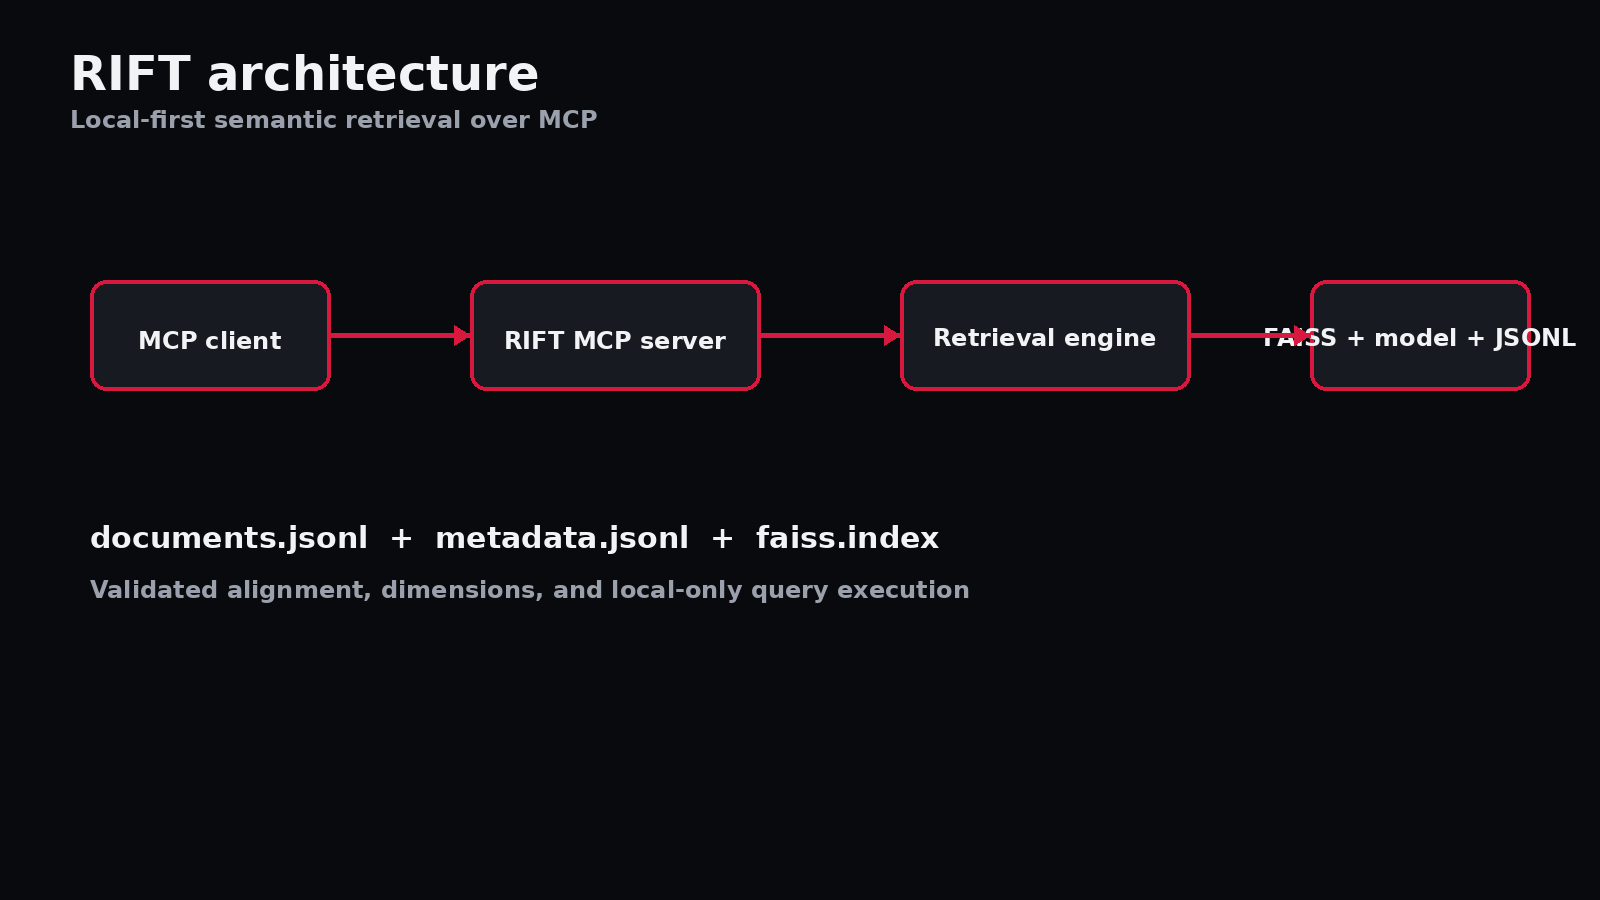
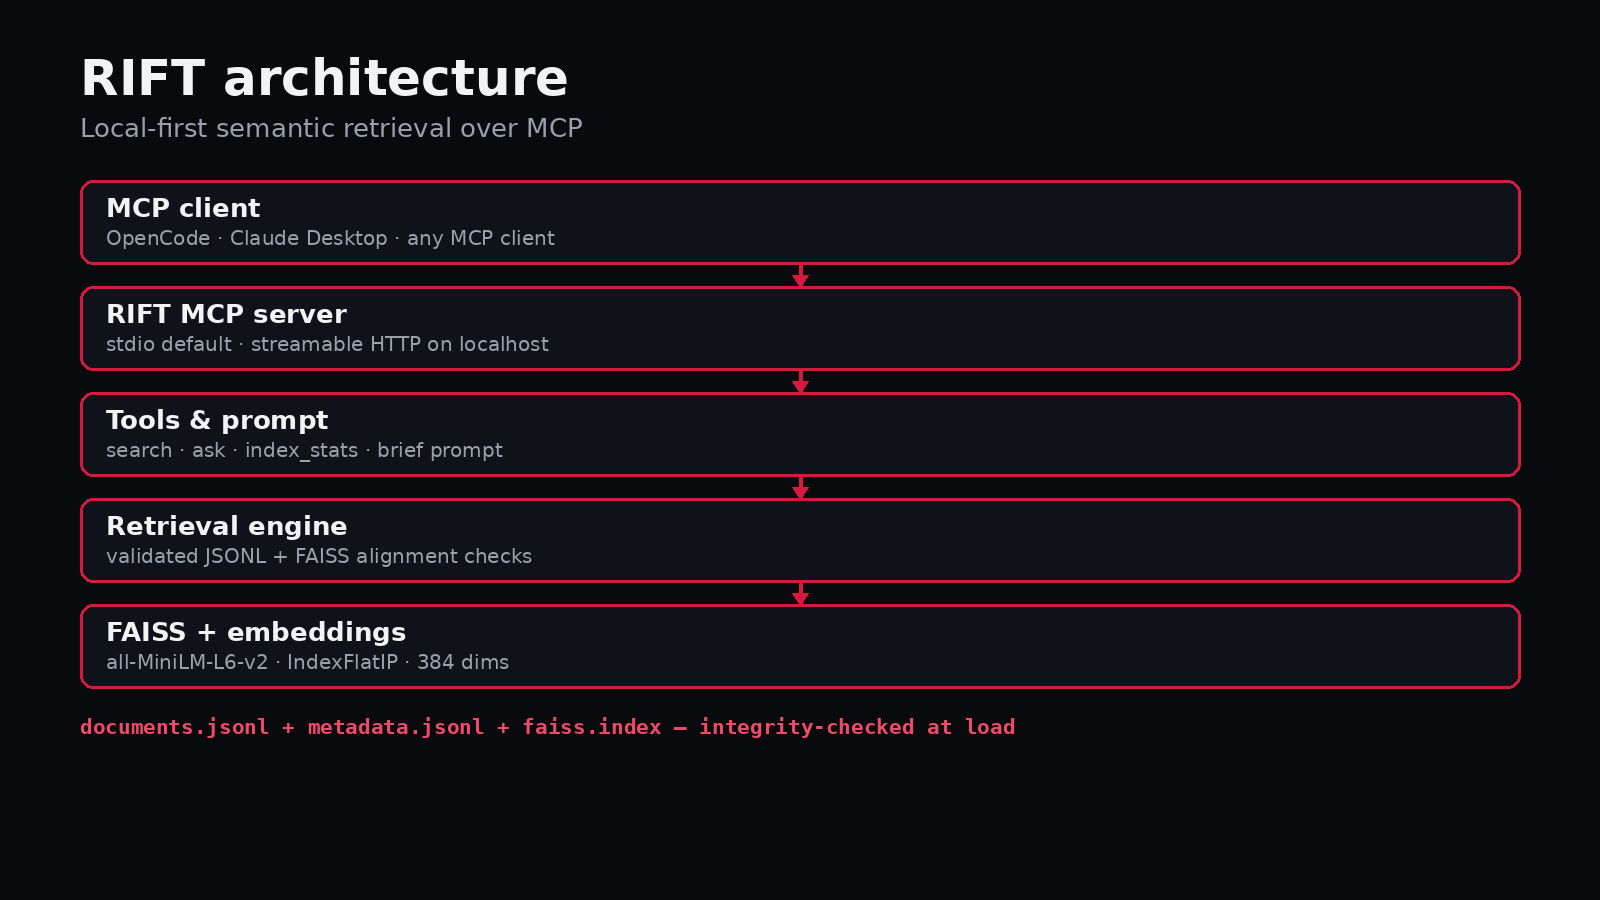
Fix raster assets (clipped text) and stale references
- Regenerate banner.png, social-preview.png, architecture.png so all text
  fits within margins (previously clipped off-canvas)
- engine: point missing-index error at RIFT_INDEX_DIR + docs/TROUBLESHOOTING.md
- server: drop unverified Cursor claim from module docstring

Changed region(s): [[0.0312, 0.1867, 1.0, 0.84], [0.0312, 0.0622, 0.375, 0.1556]]

diff --git a/dayunhalawa_mcp/engine.py b/dayunhalawa_mcp/engine.py
@@ -73,8 +73,8 @@ class Engine:
             if not p.exists():
                 raise FileNotFoundError(
                     f"Index file missing: {p}. Expected faiss.index, documents.jsonl "
-                    f"and metadata.jsonl in DAYUNHALAWA_INDEX_DIR (current: {self.index_dir}). "
-                    "See README.md#building-the-index."
+                    f"and metadata.jsonl in RIFT_INDEX_DIR (legacy DAYUNHALAWA_INDEX_DIR; current: {self.index_dir}). "
+                    "See docs/TROUBLESHOOTING.md."
                 )
 
         self.index = faiss.read_index(str(faiss_path))

diff --git a/dayunhalawa_mcp/server.py b/dayunhalawa_mcp/server.py
@@ -2,7 +2,7 @@
 """RIFT MCP server.
 
 Exposes the local pentesting / DFIR / offensive-scenario Q&A knowledge base
-to MCP clients (OpenCode, Claude Desktop, Cursor, etc.).
+to MCP clients (OpenCode, Claude Desktop, and other MCP-capable clients).
 
 Retrieval-only (extractive): no LLM generation, no external API keys required.
 Educational / authorized use only — see WARNING.txt.
